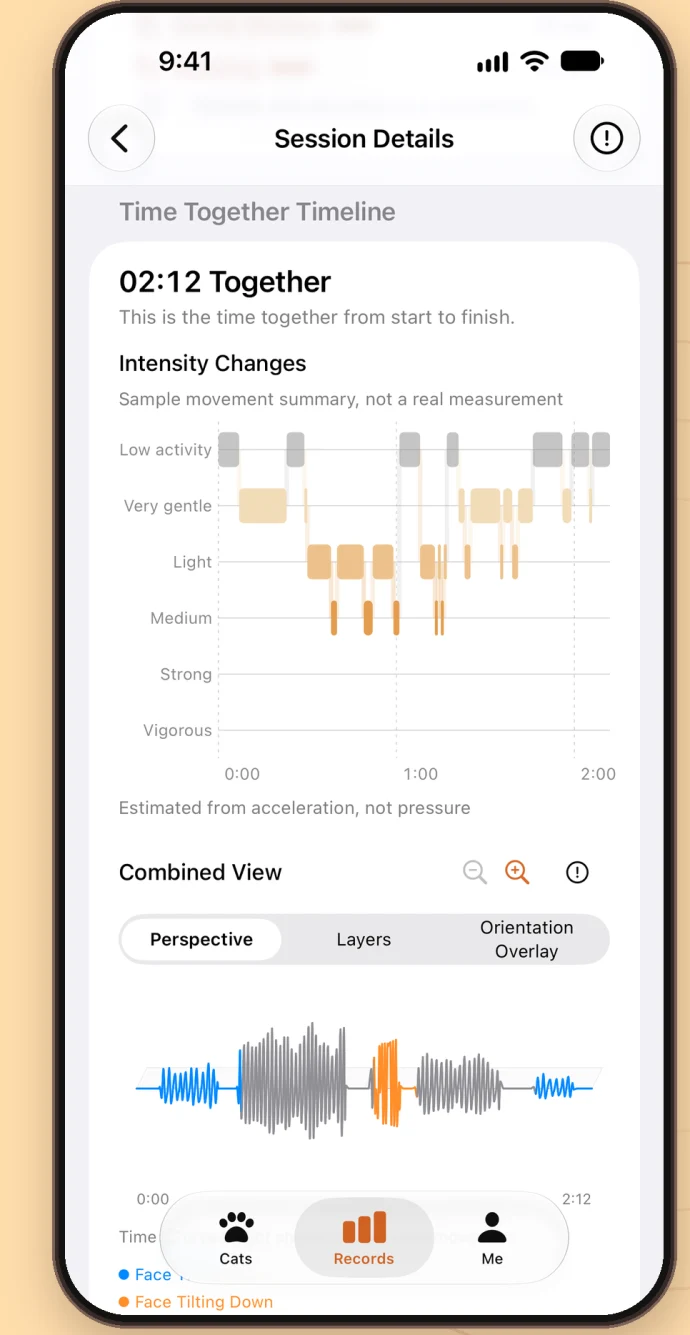
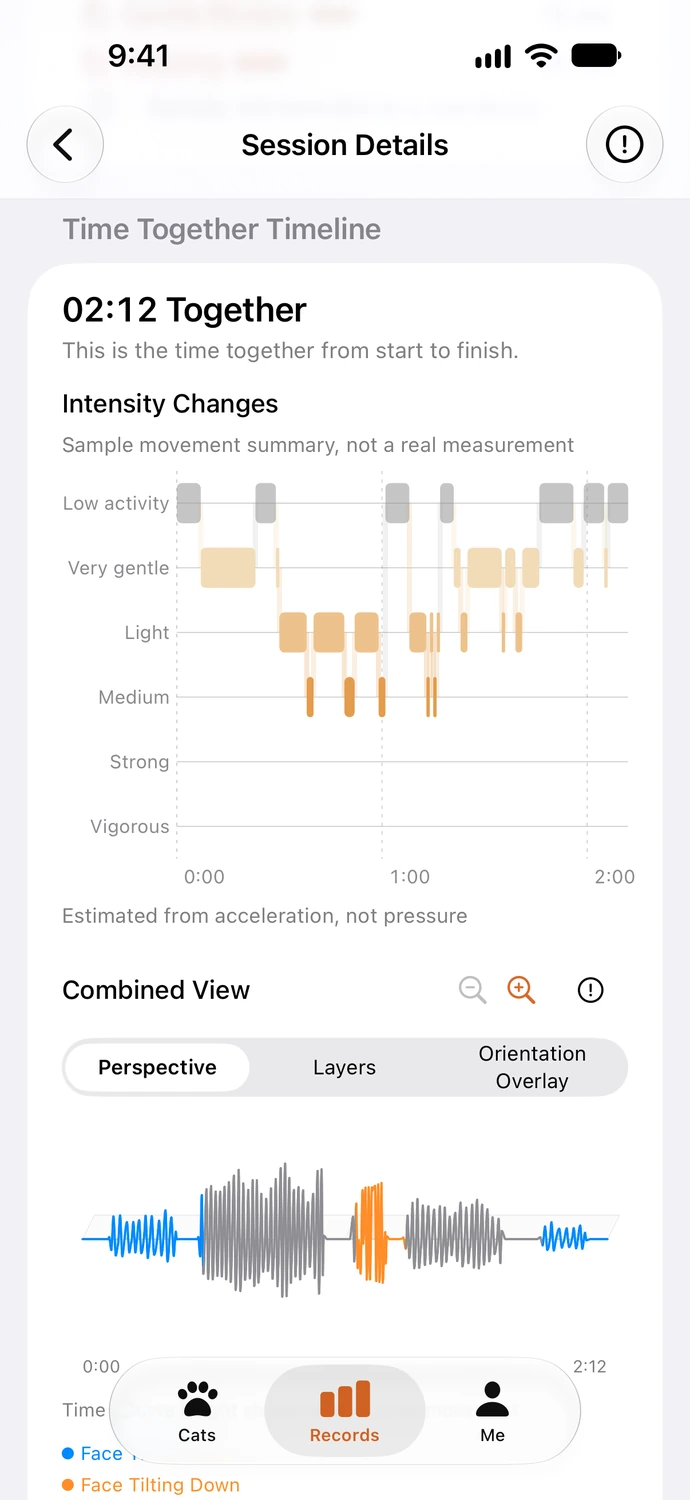
Refine LuCat landing page device frames

diff --git a/lucat/assets/css/landing.css b/lucat/assets/css/landing.css
@@ -5,6 +5,7 @@
   --muted: #655344;
   --accent: #9d351d;
   --line: #e8d9c8;
+  --device-edge: #665147;
   font-family: system-ui, -apple-system, BlinkMacSystemFont, "Segoe UI", sans-serif;
   line-height: 1.6;
   color: var(--ink);
@@ -107,24 +108,30 @@ h1 {
     repeating-radial-gradient(circle at 42% 57%, transparent 0 32px, #b7653235 33px 34px, transparent 35px 48px),
     linear-gradient(148deg, #fbe6be, #f9cb9d 72%, #f6bd93);
 }
-.phone-frame, .watch-frame { overflow: hidden; background: #faf9f6; box-shadow: 0 19px 38px #68301943; }
+.phone-frame, .watch-frame, .watch-gallery a {
+  overflow: hidden;
+  background: #fff;
+  border: 1px solid var(--device-edge);
+}
 .phone-frame {
   position: absolute;
-  width: clamp(10.6rem, 18vw, 15.15rem);
-  border-radius: 12% / 6.2%;
-  left: 21%;
-  top: 8%;
-  border: 3px solid #2e211d;
-  transform: rotate(-7deg);
+  height: 84%;
+  aspect-ratio: 690 / 1500;
+  border-radius: 12% / 5.5%;
+  left: 49%;
+  top: 49%;
+  box-shadow: 0 14px 30px #68301933;
+  transform: translate(-65%, -50%) rotate(-7deg);
 }
-.phone-frame img, .watch-frame img { width: 100%; }
+.phone-frame img { width: 100%; height: 100%; object-fit: cover; }
+.watch-frame, .watch-gallery a { border-radius: 20% / 16.8%; }
+.watch-frame img, .watch-gallery img { width: 100%; }
 .watch-frame {
   position: absolute;
-  width: clamp(6.9rem, 13vw, 10rem);
-  right: 9%;
-  bottom: 12%;
-  border-radius: 21% / 17.6%;
-  border: clamp(5px, 1vw, 9px) solid #302521;
+  width: clamp(6.4rem, 13vw, 9.6rem);
+  left: 55%;
+  bottom: 11%;
+  box-shadow: 0 9px 22px #6830192e;
   transform: rotate(8deg);
 }
 
@@ -163,8 +170,11 @@ h1 {
   padding: clamp(.8rem, 1.7vw, 1.4rem);
   background: #f8ecdc;
 }
-.watch-gallery a { display: block; border-radius: 16% / 13.4%; }
-.watch-gallery img { width: 100%; border-radius: inherit; }
+.watch-gallery a {
+  display: block;
+  border-color: #9c8473;
+  box-shadow: 0 4px 10px #68301912;
+}
 .feature h3 { font-size: 1.1rem; line-height: 1.34; font-weight: 730; }
 .feature p { color: var(--muted); margin: .52rem 0 0; font-size: .96rem; max-width: 36ch; }
 
@@ -220,8 +230,6 @@ h1 {
   .hero { gap: 2rem; }
   h1 { max-width: 10ch; }
   .hero-visual { height: clamp(22rem, 52vw, 29rem); }
-  .phone-frame { width: clamp(10rem, 23vw, 13.4rem); left: 18%; }
-  .watch-frame { width: clamp(6.15rem, 14vw, 8.1rem); right: 7%; }
   .feature-grid { grid-template-columns: repeat(2, minmax(0, 1fr)); row-gap: 2rem; }
   .feature-stack { grid-column: 1 / -1; display: grid; grid-template-columns: repeat(2, minmax(0, 1fr)); }
 }
@@ -237,8 +245,7 @@ h1 {
   h1 { font-size: clamp(3.25rem, 10.4vw, 4.5rem); max-width: 13ch; }
   .hero-intro { margin: 1rem 0 1.2rem; }
   .hero-visual { height: clamp(23rem, 98vw, 28.6rem); border-radius: 1.35rem; }
-  .phone-frame { left: 20%; width: clamp(10.2rem, 45vw, 13.5rem); }
-  .watch-frame { width: clamp(6.4rem, 29vw, 8rem); right: 11%; }
+  .watch-frame { width: clamp(6.4rem, 29vw, 8rem); }
   .feature-stack { grid-template-columns: 1fr; gap: 1.75rem; }
   .feature-shot, .watch-gallery { margin-bottom: .65rem; }
   .feature h3 { font-size: 1rem; }
@@ -252,5 +259,4 @@ h1 {
   .site-header nav { gap: .45rem; }
   .site-header nav a { font-size: .78rem; }
   .hero-visual { height: 21rem; }
-  .watch-frame { right: 7%; }
 }

diff --git a/lucat/index.html b/lucat/index.html
@@ -8,7 +8,7 @@
   <meta name="description" content="Track time with each cat. Start petting sessions on Apple Watch, see your daily progress, and keep a separate weight history for every cat.">
   <link rel="canonical" href="https://betaer.github.io/lucat/">
   <link rel="icon" type="image/webp" href="assets/images/lucat-icon.webp">
-  <link rel="stylesheet" href="assets/css/landing.css">
+  <link rel="stylesheet" href="assets/css/landing.css?v=slim-frames">
   <script defer src="assets/js/support-email.js"></script>
   <meta property="og:type" content="website">
   <meta property="og:site_name" content="LuCat">
@@ -46,7 +46,7 @@
       </div>
       <figure class="hero-visual" aria-label="LuCat on Apple Watch and iPhone">
         <div class="phone-frame">
-          <img src="assets/images/session-timeline.webp" width="690" height="1335"
+          <img src="assets/images/session-timeline.webp?v=slim-frames" width="690" height="1500"
             fetchpriority="high" alt="LuCat on iPhone showing the duration and movement timeline of a saved petting session.">
         </div>
         <div class="watch-frame">
